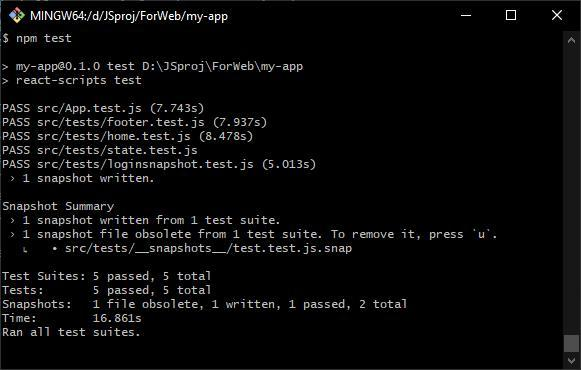
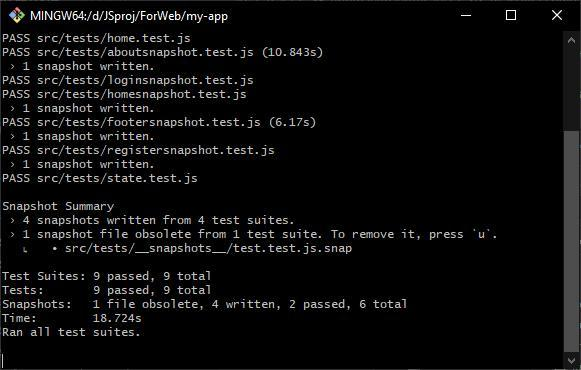
added tests

diff --git a/src/tests/aboutsnapshot.test.js b/src/tests/aboutsnapshot.test.js
@@ -1,0 +1,18 @@
+import React from 'react';
+import { shallow } from 'enzyme';
+import { shallowToJson } from 'enzyme-to-json';
+import { configure } from 'enzyme';
+import Adapter from 'enzyme-adapter-react-16';
+
+
+import About from "../components/About";
+
+configure({ adapter: new Adapter() });
+describe('Login', () => {
+  it('should render correctly', () => {
+    const output = shallow(
+      <About />
+    );
+    expect(shallowToJson(output)).toMatchSnapshot();
+  });
+});

diff --git a/src/tests/footersnapshot.test.js b/src/tests/footersnapshot.test.js
@@ -1,0 +1,18 @@
+import React from 'react';
+import { shallow } from 'enzyme';
+import { shallowToJson } from 'enzyme-to-json';
+import { configure } from 'enzyme';
+import Adapter from 'enzyme-adapter-react-16';
+
+
+import About from "../components/About";
+
+configure({ adapter: new Adapter() });
+describe('Login', () => {
+  it('should render correctly', () => {
+    const output = shallow(
+      <About />
+    );
+    expect(shallowToJson(output)).toMatchSnapshot();
+  });
+});

diff --git a/src/tests/homesnapshot.test.js b/src/tests/homesnapshot.test.js
@@ -1,0 +1,18 @@
+import React from 'react';
+import { shallow } from 'enzyme';
+import { shallowToJson } from 'enzyme-to-json';
+import { configure } from 'enzyme';
+import Adapter from 'enzyme-adapter-react-16';
+
+
+import Login from "../components/Login";
+
+configure({ adapter: new Adapter() });
+describe('Login', () => {
+  it('should render correctly', () => {
+    const output = shallow(
+      <Login />
+    );
+    expect(shallowToJson(output)).toMatchSnapshot();
+  });
+});

diff --git a/src/tests/registersnapshot.test.js b/src/tests/registersnapshot.test.js
@@ -1,0 +1,18 @@
+import React from 'react';
+import { shallow } from 'enzyme';
+import { shallowToJson } from 'enzyme-to-json';
+import { configure } from 'enzyme';
+import Adapter from 'enzyme-adapter-react-16';
+
+
+import Login from "../components/Login";
+
+configure({ adapter: new Adapter() });
+describe('Login', () => {
+  it('should render correctly', () => {
+    const output = shallow(
+      <Login />
+    );
+    expect(shallowToJson(output)).toMatchSnapshot();
+  });
+});
